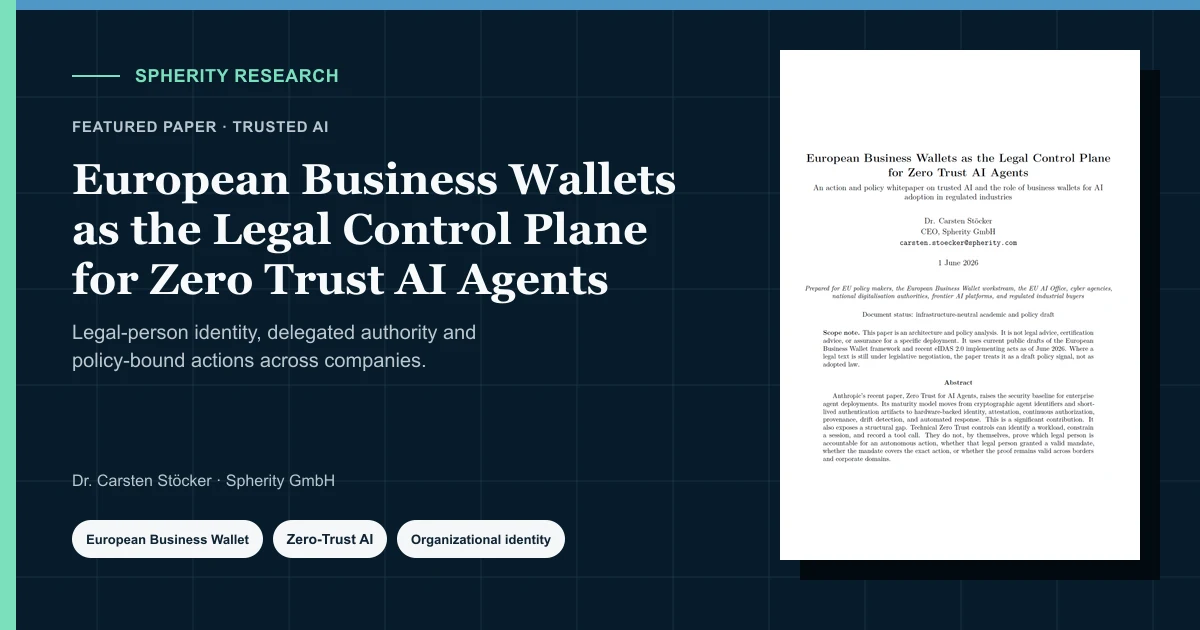
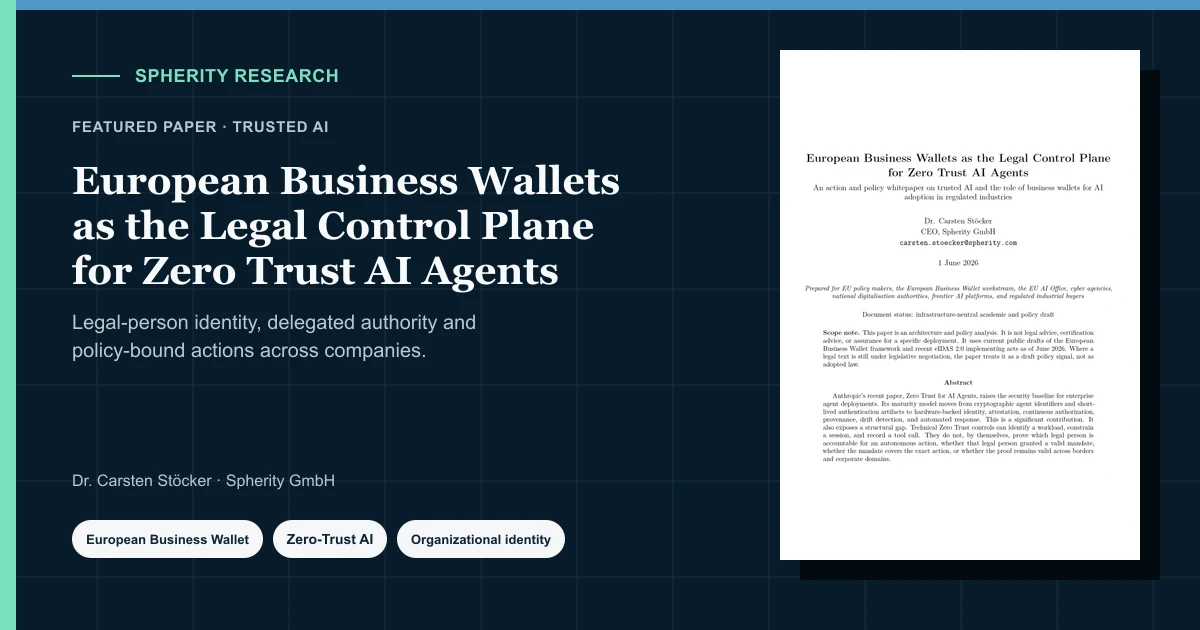
fix: harden portable social-card preflight

Changed region(s): [[0.0617, 0.2413, 0.5858, 0.6032]]

diff --git a/README.md b/README.md
@@ -19,8 +19,9 @@ grid style is regenerated before local checks and deployment. A mandatory
 preflight measures every title, subtitle, description, byline, and topic row
 against the left-column safe area; generation and deployment fail if text
 enters the 60-pixel gutter before the document visual. Portable line-length
-limits also prevent operating-system font substitutions from passing locally
-but overflowing in GitHub Actions. The Gartner-
+limits and a conservative non-Linux serif-width allowance also prevent
+operating-system font substitutions from passing locally but overflowing in
+GitHub Actions. The Gartner-
 approved strategy card is a checksum-protected exception and must not be
 changed without a new approval.
 
